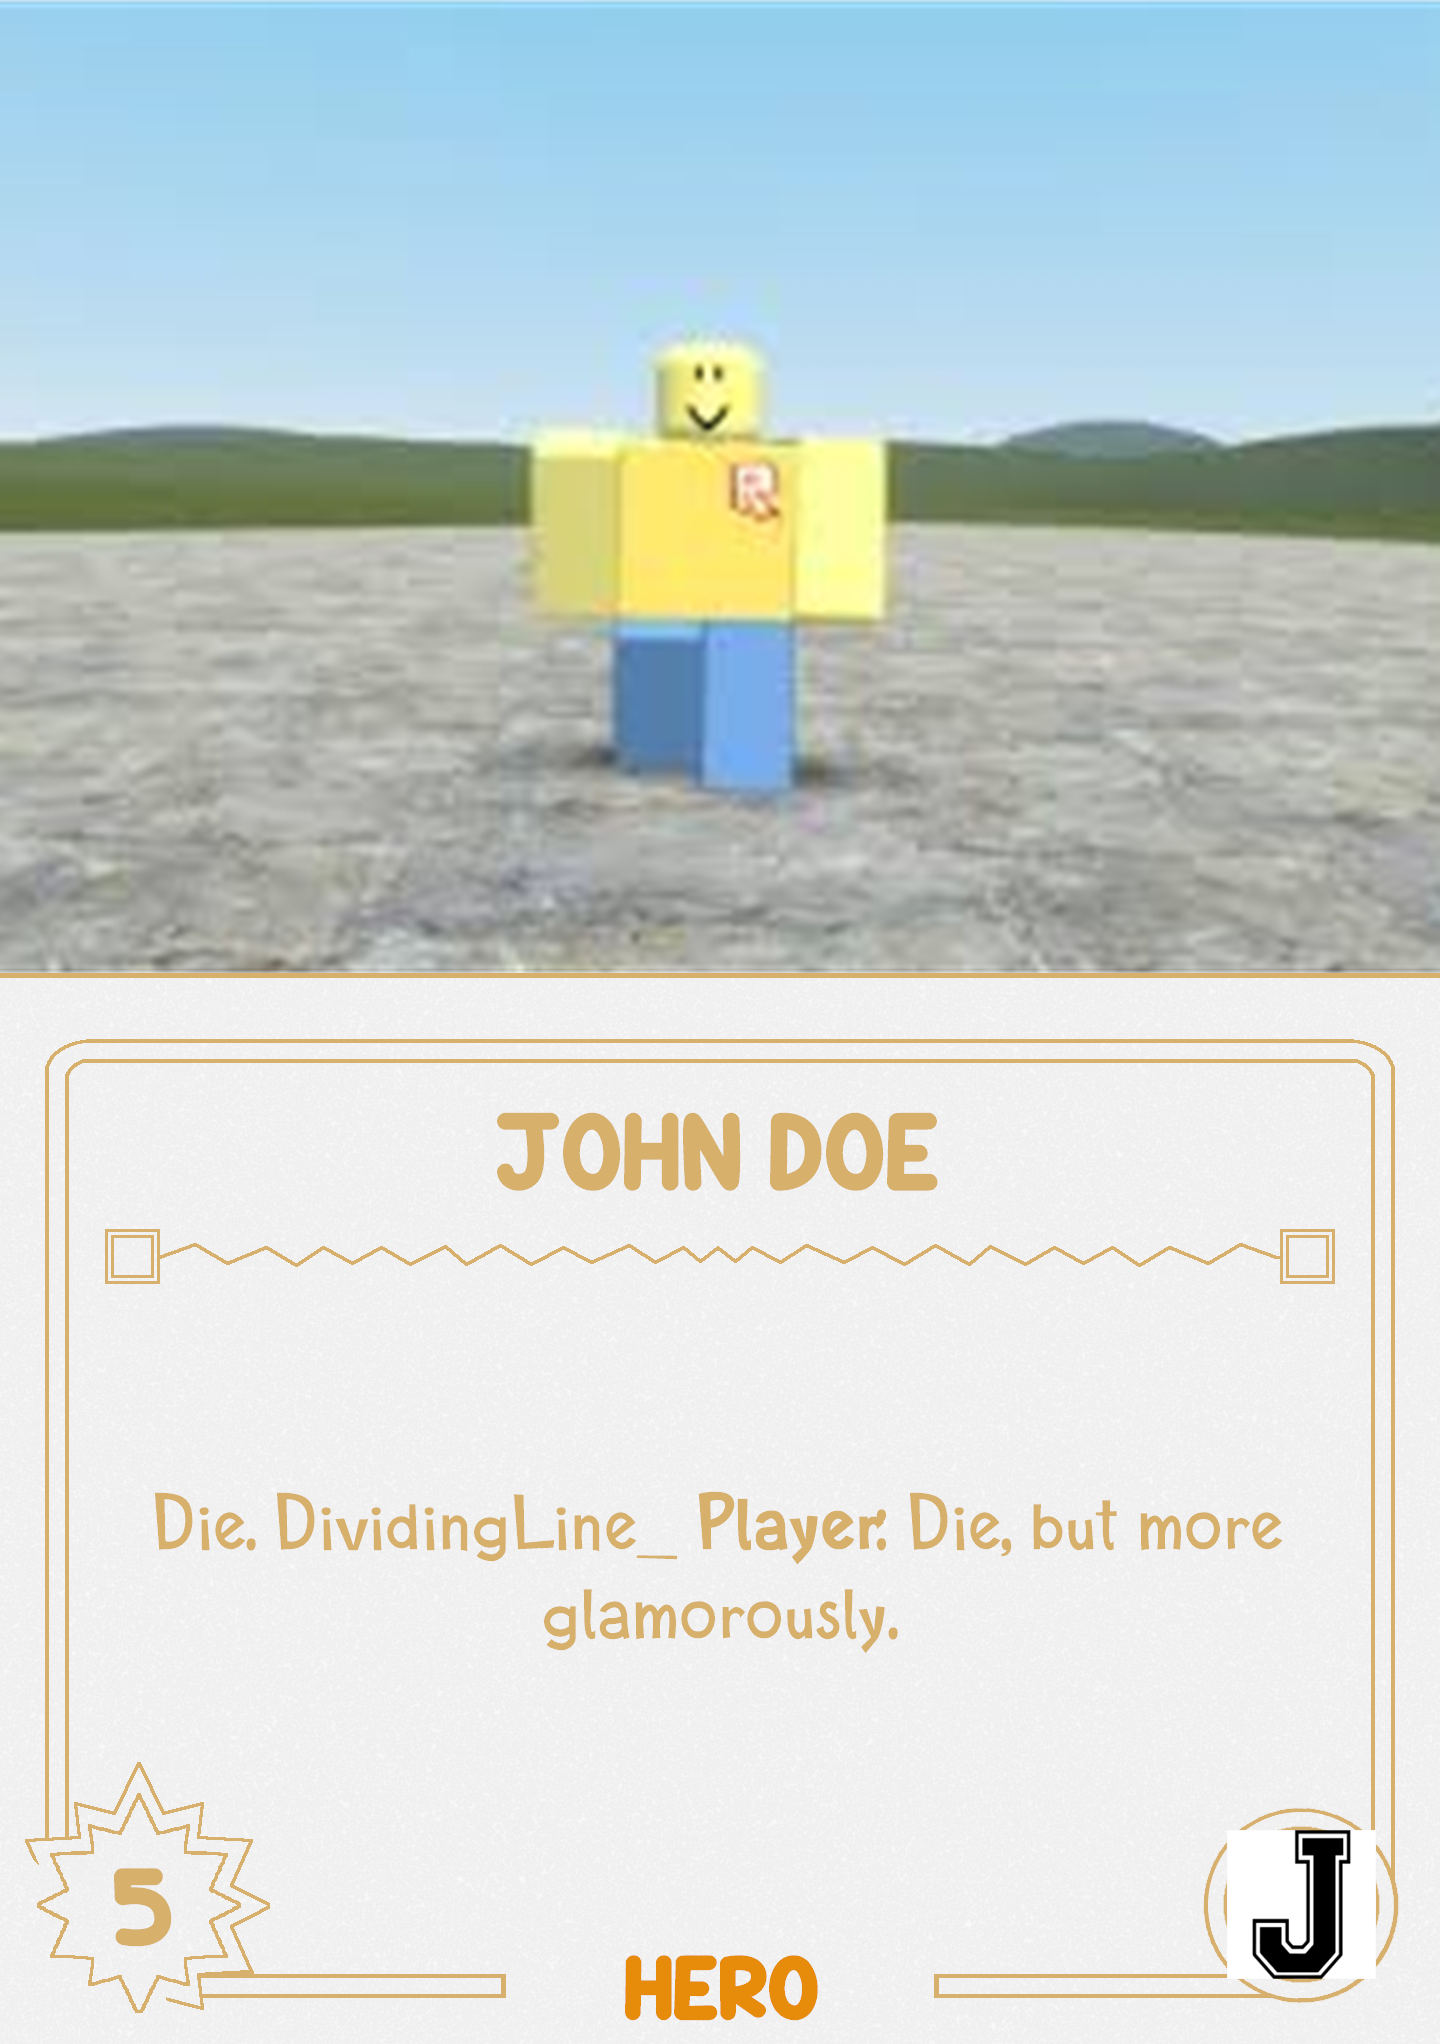
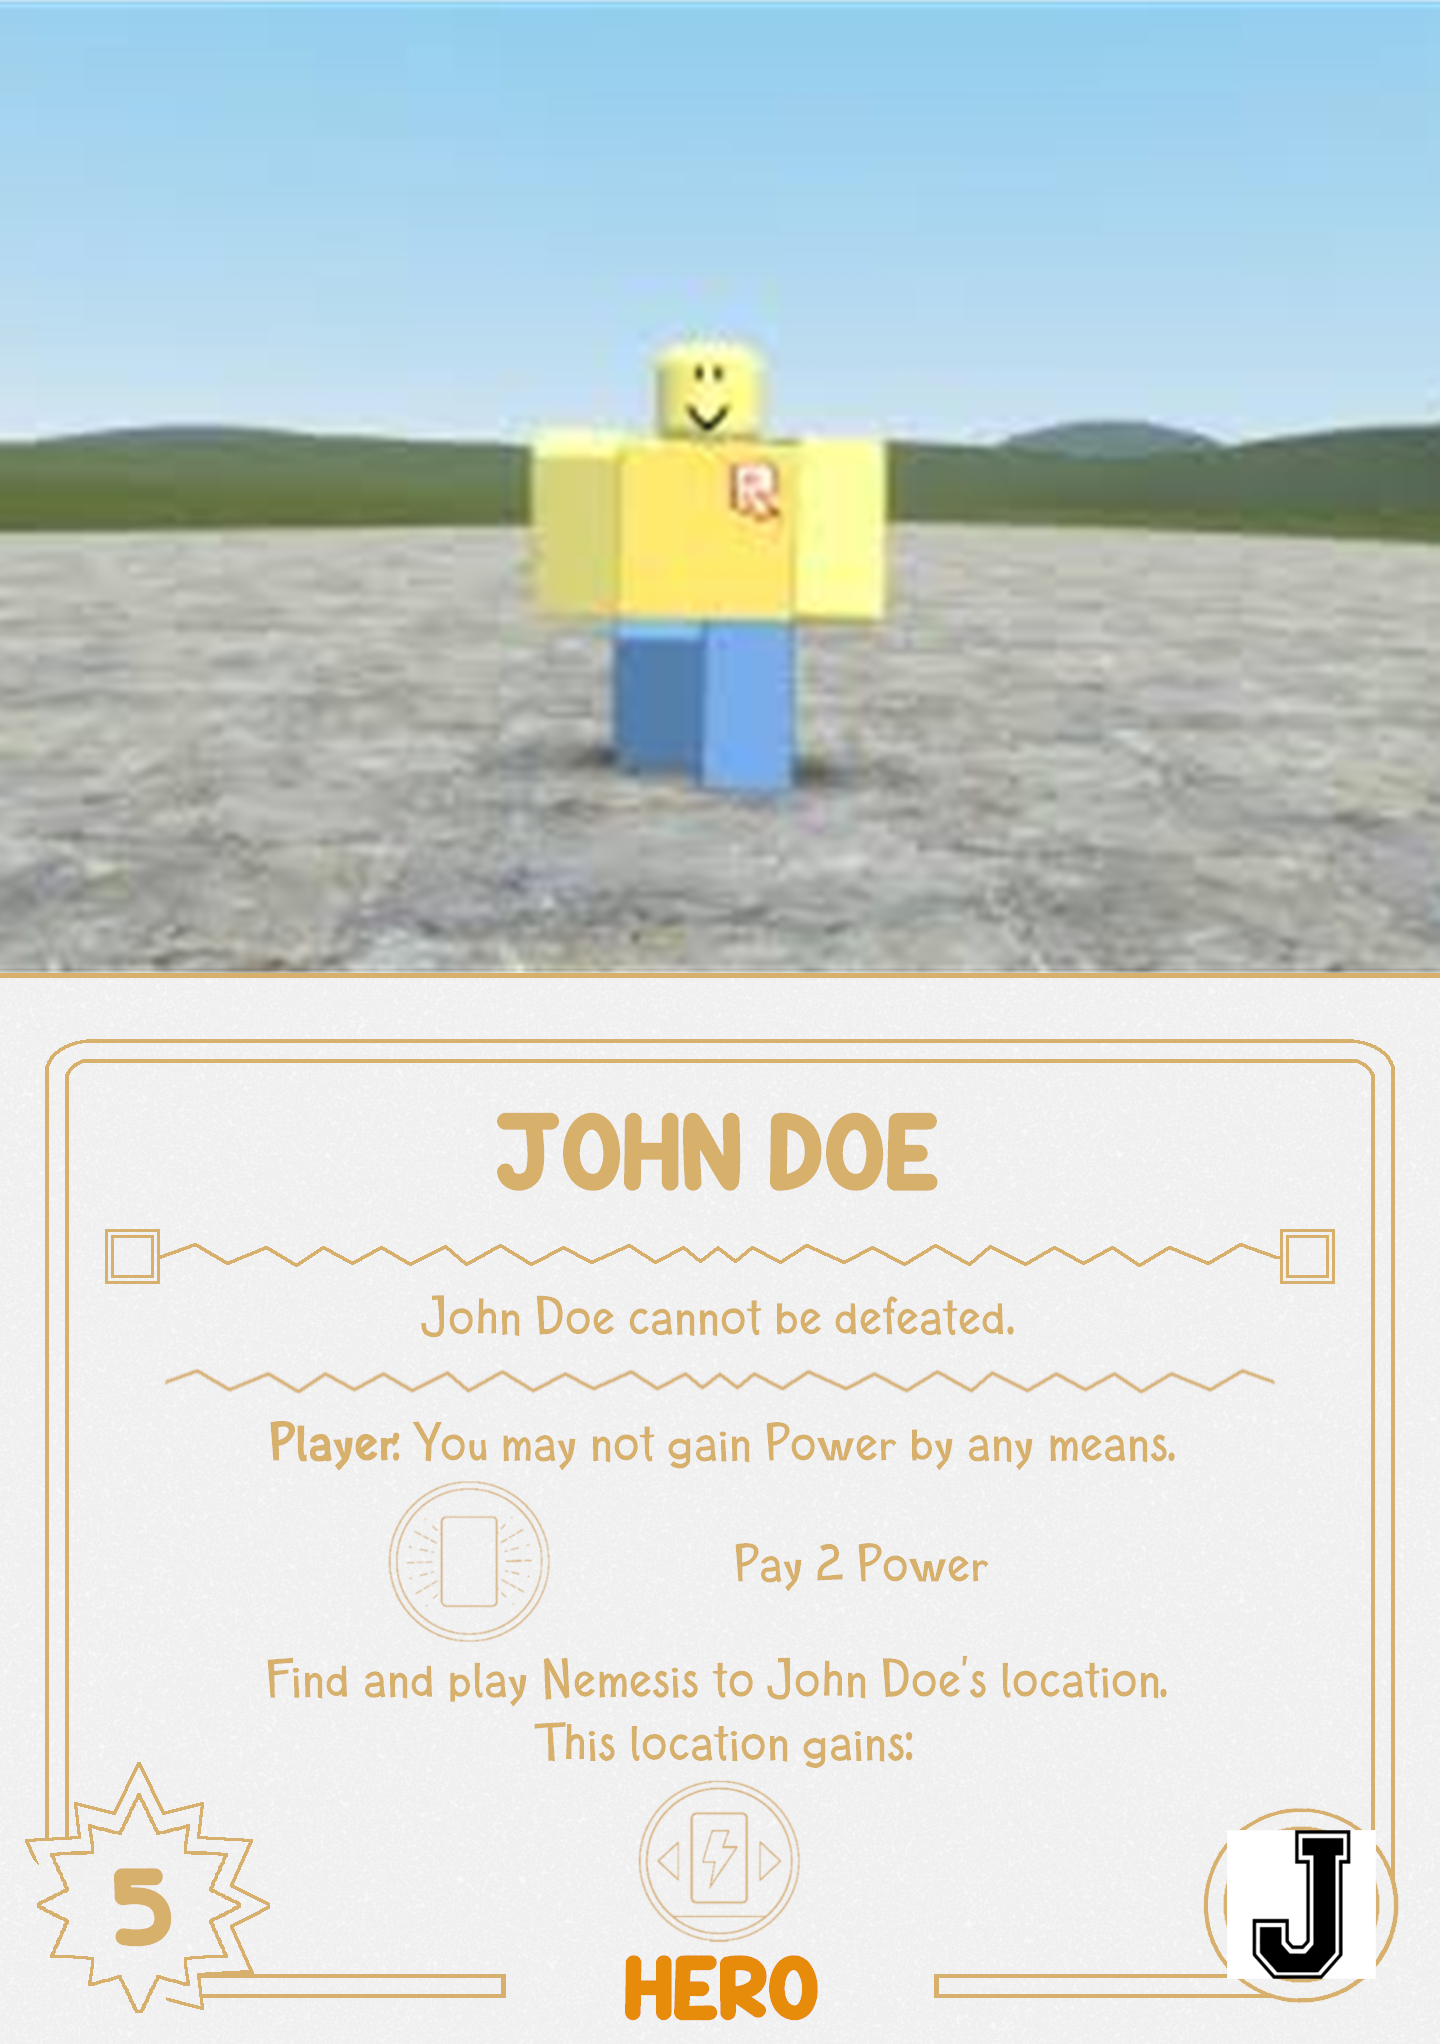
Fixed the gains action feature

Changed region(s): [[0.0938, 0.6164, 0.9062, 0.9555]]

diff --git a/CardGeneration/PrepareText.cs b/CardGeneration/PrepareText.cs
@@ -260,7 +260,6 @@ namespace ToonVil_Card_Generator.CardGeneration
 		/// <param name="ability">ability of the card</param>
 		/// <param name="activateAbility">ability on activate of the card</param>
 		/// <param name="activateCost">cost to activate the card</param>
-		/// <param name="gainsAction">action this card's location gains</param>
 		/// <param name="font">font to draw the text with</param>
 		/// <param name="textColor">base color to draw the text with</param>
 		/// <param name="maxWidth">maximum width this text can take</param>
@@ -307,7 +306,7 @@ namespace ToonVil_Card_Generator.CardGeneration
 				lineHeight = drawing.MeasureString("Tq", font, maxWidth, sf).Height;
 				abilityHeight = ability == "" ? 0 : drawing.MeasureString(GetCleanText(ability), font, maxWidth, sf).Height;
 				activateAbilityHeight = (activateAbility == "" && activateCost == "") ? 0 : 3 * lineHeight + (activateAbility == "" ? 0 : drawing.MeasureString(GetCleanText(activateAbility), font, maxWidth, sf).Height);
-				gainsActionHeight = gainsAction == "" ? 0 : 4 * lineHeight;
+				gainsActionHeight = gainsAction == "" ? 0 : 3 * lineHeight;
 				textHeight = abilityHeight + activateAbilityHeight + gainsActionHeight;
 
 				if (textHeight > maxHeight) font = new Font(font.Name, font.SizeInPoints - granularity, font.Style);
@@ -326,7 +325,7 @@ namespace ToonVil_Card_Generator.CardGeneration
 			{
 				words = GetCardWords(ability, textBrush, font, keywordsAndColors);
 
-				currentY = DrawWordByWord(drawing, font, sf, words, maxWidth, wordHeight, currentY);
+				currentY = DrawWordByWord(words, drawing, font, sf, maxWidth, wordHeight, currentY);
 			}
 
 			// Then draw the activate symbol, cost, and ability
@@ -341,7 +340,7 @@ namespace ToonVil_Card_Generator.CardGeneration
 				{
 					centerX -= 250;
 				}
-				DrawSymbol(drawing, activateSymbol, centerX, currentY + lineHeight * 1.5F, resizing);
+				DrawSymbol(activateSymbol, drawing, centerX, currentY + lineHeight * 1.5F, resizing);
 				
 				// Cost, if any
 				if (activateCost != "")
@@ -351,7 +350,7 @@ namespace ToonVil_Card_Generator.CardGeneration
 					float activateCostWidth = maxWidth / 2;
 					float activateCostHeight = drawing.MeasureString(GetCleanText(activateCost), font, (int)activateCostWidth, sf).Height;
 					float activateCostY = currentY + (3 * lineHeight - activateCostHeight) / 2; // maximum of 3 lines for clarity
-					DrawWordByWord(drawing, font, sf, words, activateCostWidth, wordHeight, activateCostY, xOffset);
+					DrawWordByWord(words, drawing, font, sf, activateCostWidth, wordHeight, activateCostY, xOffset);
 				}
 				currentY += 3 * lineHeight;
 
@@ -359,26 +358,14 @@ namespace ToonVil_Card_Generator.CardGeneration
 				if (activateAbility != "")
 				{
 					words = GetCardWords(activateAbility, textBrush, font, keywordsAndColors);
-					currentY = DrawWordByWord(drawing, font, sf, words, maxWidth, wordHeight, currentY);
+					currentY = DrawWordByWord(words, drawing, font, sf, maxWidth, wordHeight, currentY);
 				}
 			}
 
 			// Finally, draw the gained action
-			if (gainsAction != "")
+			if (gainsAction != "" && AssetHelper.AssetExists(gainsAction))
 			{
-				// Preceding text
-				SizeF precedingTextWidthHeight = drawing.MeasureString("This location gains:", font, 100000, sf);
-				RectangleF precedingTextRect = new RectangleF(
-					(maxWidth - precedingTextWidthHeight.Width) / 2,
-					currentY,
-					precedingTextWidthHeight.Width,
-					precedingTextWidthHeight.Height
-				);
-				drawing.DrawString("This location gains:", font, textBrush, precedingTextRect, sf);
-				currentY += lineHeight;
-
-				// Symbol
-				string assetName = AssetHelper.GetAssetName(gainsAction);
+				string assetName = gainsAction;
 				string gainPowerAmt = AssetHelper.GainPowerAmount(assetName);
 				if (gainPowerAmt != "")
 				{
@@ -387,18 +374,22 @@ namespace ToonVil_Card_Generator.CardGeneration
 				string gainsSymbolPath = PathHelper.GetFullPath(Path.Combine("assets", assetName + ".png"));
 				Image gainsSymbol = Image.FromFile(gainsSymbolPath);
 				float resizing = actionSymbolLines * lineHeight / gainsSymbol.Height;
-				DrawSymbol(drawing, gainsSymbol, maxWidth / 2, currentY + 1.5F * lineHeight, resizing);
+				DrawSymbol(gainsSymbol, drawing, maxWidth / 2, currentY + 1.5F * lineHeight, resizing);
 
 				// If this was a Gain Power action, draw the amount to be gained
 				if (gainPowerAmt != "")
 				{
 					Font gainPowerFont = FontLoader.GetFont(
 						ConfigHelper.GetConfigValue("card", "elementFont"),
-						float.Parse(ConfigHelper.GetConfigValue("card", "costFontSize"))
+						float.Parse(ConfigHelper.GetConfigValue("card", "costFontSize")) * resizing
 					);
-					float gainPowerAmtWidth = drawing.MeasureString(gainPowerAmt, gainPowerFont, 10000, sf).Width;
-					PointF gainPowerPos = new PointF();
-					drawing.DrawString(gainPowerAmt, gainPowerFont, textBrush, gainPowerPos);
+					float textW = drawing.MeasureString(gainPowerAmt, gainPowerFont, 100000, sf).Width;
+					float textH = drawing.MeasureString(gainPowerAmt, gainPowerFont, 100000, sf).Height;
+					PointF gainPowerPos = new(
+						maxWidth / 2,
+						currentY + 1.5F * lineHeight
+					);
+					drawing.DrawString(gainPowerAmt, gainPowerFont, textBrush, gainPowerPos, sf);
 				}
 			}
 
@@ -537,89 +528,122 @@ namespace ToonVil_Card_Generator.CardGeneration
 		/// For use when words of varying styles need to be drawn in a cohesive paragraph.
 		/// Meant to be used in a chain with other text that will share the same Graphics object.
 		/// </summary>
+		/// <param name="words">each word to be drawn</param>
 		/// <param name="g">the Graphics object used to draw</param>
 		/// <param name="f">the base Font used by the words</param>
 		/// <param name="sf">the StringFormat used to draw the words</param>
-		/// <param name="words">each word to be drawn</param>
 		/// <param name="maxW">max width the words are allowed to take up</param>
 		/// <param name="wordH">height the words take up</param>
 		/// <param name="startY">the y-coordinate to start drawing at</param>
 		/// <returns>the y-coordinate drawing ended at</returns>
-		private static float DrawWordByWord(Graphics g, Font f, StringFormat sf, List<CardWord> words, float maxW, float wordH, float startY, float xOffset = 0)
+		private static float DrawWordByWord(List<CardWord> words, Graphics g, Font f, StringFormat sf, float maxW, float wordH, float startY, float xOffset = 0)
 		{
 			// Draw text word by word
 			float currentY = startY;
 			int iCheckWordLengths = 0;
 			int iDraw = 0;
-			int lineLength;
+			int lineLength = 0;
 			bool endOfText = false;
+			int linesToSkip = 0;
+			bool drawAsset = false;
 			while (!endOfText)
 			{
-				// First, find the length of this line
-				lineLength = 0;
-				try
+				if (linesToSkip == 0)
 				{
-					bool endOfLine = false;
-					bool skippedSpace = false;
-					int currentWordWidth;
-					int previousSpaceWidth = 0;
-					while (!endOfLine)
+					// First, find the length of this line
+					lineLength = 0;
+					try
 					{
-						if (skippedSpace) previousSpaceWidth = (int)Math.Ceiling(words[iCheckWordLengths - 1].GetSizeF(g, (int)maxW, sf).Width);
+						bool endOfLine = false;
+						bool skippedSpace = false;
+						int currentWordWidth;
+						int previousSpaceWidth = 0;
+						while (!endOfLine)
+						{
+							if (skippedSpace) previousSpaceWidth = (int)Math.Ceiling(words[iCheckWordLengths - 1].GetSizeF(g, (int)maxW, sf).Width);
 
-						// Measure each word without regards to style.
-						Font currentFont = words[iCheckWordLengths].GetTextFont();
-						words[iCheckWordLengths].SetTextFont(f);
-						currentWordWidth = (int)Math.Ceiling(words[iCheckWordLengths].GetSizeF(g, (int)maxW, sf).Width);
-						words[iCheckWordLengths].SetTextFont(currentFont);
+							// Measure each word without regards to style.
+							Font currentFont = words[iCheckWordLengths].GetTextFont();
+							words[iCheckWordLengths].SetTextFont(f);
+							currentWordWidth = (int)Math.Ceiling(words[iCheckWordLengths].GetSizeF(g, (int)maxW, sf).Width);
+							words[iCheckWordLengths].SetTextFont(currentFont);
 
-						// Trying to access past end of available words will throw an
-						// error that we will catch
-						if (words[iCheckWordLengths].GetText() == " ")
-						{
-							skippedSpace = true;
-							iCheckWordLengths++;
+							// Trying to access past end of available words will throw an
+							// error that we will catch
+							if (words[iCheckWordLengths].GetText() == " ")
+							{
+								skippedSpace = true;
+								iCheckWordLengths++;
+							}
+							else if (lineLength + currentWordWidth + (skippedSpace ? previousSpaceWidth : 0) > maxW)
+							{
+								endOfLine = true;
+							}
+							else if (words[iCheckWordLengths].GetText() == "\n")
+							{
+								endOfLine = true;
+								iCheckWordLengths++;
+							}
+							else if (AssetHelper.AssetExists(AssetHelper.GetAssetName(words[iCheckWordLengths].GetText())))
+							{
+								endOfLine = true;
+								linesToSkip = string.Equals(words[iCheckWordLengths].GetText(), "DividingLine_") ? 1 : 3;
+								drawAsset = true;
+							}
+							else
+							{
+								lineLength += currentWordWidth + (skippedSpace ? previousSpaceWidth : 0);
+								skippedSpace = false;
+								iCheckWordLengths++;
+							}
 						}
-						else if (lineLength + currentWordWidth + (skippedSpace ? previousSpaceWidth : 0) > maxW)
+					}
+					catch (Exception ex)            
+					{                
+						if (ex is IndexOutOfRangeException || ex is ArgumentOutOfRangeException)
 						{
-							endOfLine = true;
-						}
-						else if (words[iCheckWordLengths].GetText() == "\n")
-						{
-							endOfLine = true;
-							iCheckWordLengths++;
+							endOfText = true;
 						}
 						else
-						{
-							lineLength += currentWordWidth + (skippedSpace ? previousSpaceWidth : 0);
-							skippedSpace = false;
-							iCheckWordLengths++;
-						}
+							throw;
 					}
-				}
-				catch (Exception ex)            
-				{                
-					if (ex is IndexOutOfRangeException || ex is ArgumentOutOfRangeException)
-					{
-						endOfText = true;
-					}
-					else
-						throw;
 				}
 
-				// Then, draw each word in the line
-				float currentX = (maxW + xOffset - lineLength) / 2;
-				for (int i = iDraw; i < iCheckWordLengths; i++)
+				if (linesToSkip > 0 && iDraw == iCheckWordLengths)
 				{
-					CardWord word = words[i];
-					float wordWidth = words[iDraw].GetSizeF(g, (int)maxW, sf).Width;
-					Font currentFont = words[i].GetTextFont();
-					words[i].SetTextFont(f);
-					float noStyleWordWidth = words[iDraw].GetSizeF(g, (int)maxW, sf).Width;
-					words[i].SetTextFont(currentFont);
-					g.DrawString(word.GetText(), word.GetTextFont(), word.GetTextBrush(), new RectangleF(currentX + xOffset, currentY, wordWidth, wordH), sf);
-					currentX += noStyleWordWidth;
-					iDraw++;
+					if (drawAsset)
+					{
+						string assetName = AssetHelper.GetAssetName(words[iDraw].GetText());
+						Image asset = Image.FromFile(PathHelper.GetFullPath(Path.Combine("assets", assetName + AssetHelper.FindExtension(assetName))));
+						float yOffset = string.Equals(assetName, "DividingLine") ? 0.5F * wordH : 1.5F * wordH;
+						float actionSymbolLines = float.Parse(ConfigHelper.GetConfigValue("asset", "actionSymbolLines"));
+						float resizing = string.Equals(assetName, "DividingLine") ? 1.0F : actionSymbolLines * wordH / asset.Height;
+						DrawSymbol(asset, g, maxW / 2, currentY + yOffset, resizing);
+						drawAsset = false;
+					}
+					linesToSkip--;
+					if (linesToSkip == 0)
+					{
+						iCheckWordLengths++;
+						iDraw++;
+					}
+				}
+				// Draw each word in the line
+				else
+				{
+					float currentX = (maxW + xOffset - lineLength) / 2;
+					for (int i = iDraw; i < iCheckWordLengths; i++)
+					{
+						CardWord word = words[i];
+						float wordWidth = words[iDraw].GetSizeF(g, (int)maxW, sf).Width;
+						Font currentFont = words[i].GetTextFont();
+						words[i].SetTextFont(f);
+						float noStyleWordWidth = words[iDraw].GetSizeF(g, (int)maxW, sf).Width;
+						words[i].SetTextFont(currentFont);
+						g.DrawString(word.GetText(), word.GetTextFont(), word.GetTextBrush(), new RectangleF(currentX + xOffset, currentY, wordWidth, wordH), sf);
+						currentX += noStyleWordWidth;
+						iDraw++;
+					}
 				}
 				currentY += wordH;
 			}
@@ -629,12 +653,12 @@ namespace ToonVil_Card_Generator.CardGeneration
 		/// <summary>
 		/// Draws the given square symbol at the given coordinates.
 		/// </summary>
-		/// <param name="g">the Graphics object this will use to draw</param>
 		/// <param name="symbol">the symbol to draw</param>
+		/// <param name="g">the Graphics object this will use to draw</param>
 		/// <param name="centerX">the x-coordinate of the center of the symbol</param>
 		/// <param name="centerY">the y-coordinate of the center of the symbol</param>
 		/// <param name="resizing">optional resizing factor</param>
-		private static void DrawSymbol(Graphics g, Image symbol, float centerX, float centerY, float resizing = 1.0F)
+		private static void DrawSymbol(Image symbol, Graphics g, float centerX, float centerY, float resizing = 1.0F)
 		{
 			Bitmap b = new(symbol, new Size((int)(symbol.Width * resizing), (int)(symbol.Height * resizing)));
 			float x = centerX - resizing * symbol.Width / 2;
@@ -683,12 +707,12 @@ namespace ToonVil_Card_Generator.CardGeneration
 					{
 						if (AssetHelper.AssetExists(storedWord))
 						{
-							cleanText.Add('\n');
-							cleanText.Add('\n');
+							cleanText.Add('\n'); // carriage return to start new line
+							cleanText.Add('\n'); // carriage return to leave one line empty
 							if (storedWord != "DividingLine")
 							{
-								cleanText.Add('\n');
-								cleanText.Add('\n');
+								cleanText.Add('\n'); // carriage return to leave two lines empty
+								cleanText.Add('\n'); // carriage return to leave three lines empty
 							}
 						}
 					}

diff --git a/CardGeneration/AssetHelper.cs b/CardGeneration/AssetHelper.cs
@@ -11,6 +11,10 @@ namespace ToonVil_Card_Generator.CardGeneration
 		/// <returns>whether or not the given asset was found in the assets folder</returns>
 		public static bool AssetExists(string assetName)
 		{
+			if (GainPowerAmount(assetName) != "")
+			{
+				assetName = "GainPower";
+			}
 			string relativePathNoExt = Path.Combine("assets", assetName);
 			string relativePath = relativePathNoExt + ".png";
 			if (!File.Exists(PathHelper.GetFullPath(relativePath)))
@@ -24,6 +28,33 @@ namespace ToonVil_Card_Generator.CardGeneration
 				return true;
 			}
 			return true;
+		}
+
+		/// <summary>
+		/// Returns the extension belonging to this asset name.
+		/// </summary>
+		/// <param name="assetName">asset name to find the extension of</param>
+		/// <returns>the extension, whether .png, .jpg, or .jpeg, of the asset found, or ""</returns>
+		public static string FindExtension(string assetName)
+		{
+			string relativePathNoExt = Path.Combine("assets", assetName);
+			string ext = ".png";
+			string relativePath = relativePathNoExt + ext;
+			if (!File.Exists(PathHelper.GetFullPath(relativePath)))
+			{
+				ext = ".jpg";
+				relativePath = relativePathNoExt + ext;
+				if (!File.Exists(PathHelper.GetFullPath(relativePath)))
+				{
+					ext = ".jpeg";
+					relativePath = relativePathNoExt + ext;
+					if (!File.Exists(PathHelper.GetFullPath(relativePath)))
+					{
+						return "";
+					}
+				}
+			}
+			return ext;
 		}
 
 		/// <summary>

diff --git a/Program.cs b/Program.cs
@@ -77,7 +77,7 @@ class Program
 
         // John Doe - test
         DrawTitle("John Doe", titleFont, textColor, 1230, 166);
-		DrawAbility("Die. DividingLine_ Player: Die, but more glamorously.", "", "", "", abilityFont, textColor, 1230, 668, keywordsAndColors);
+		DrawAbility("John Doe cannot be defeated. DividingLine_ Player: You may not gain Power by any means.", "Find and play Nemesis to John Doe's location. % This location gains:", "Pay 2 Power", "MoveHero", abilityFont, textColor, 1230, 668, keywordsAndColors);
 		DrawText("5", strengthFont, textColor, 1230, 690, "Strength", keywordsAndColors);
         DrawText("Hero", typeFont, textColor, 1230, 690, "Type", keywordsAndColors);
 		SizeCardImage("John Doe");
